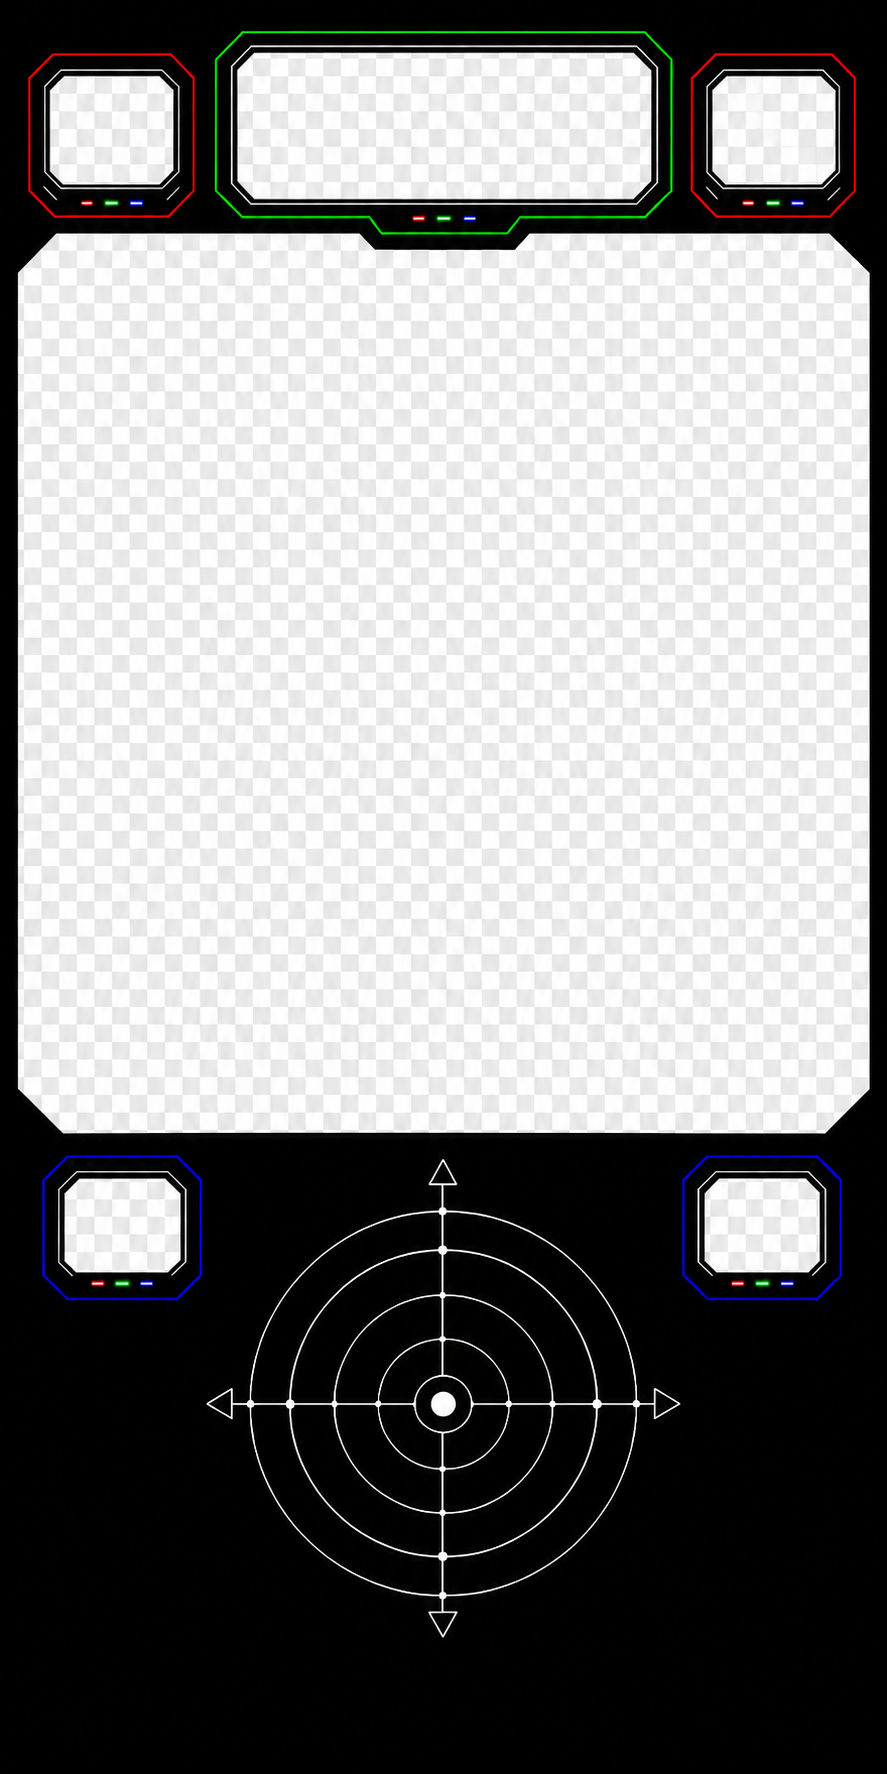
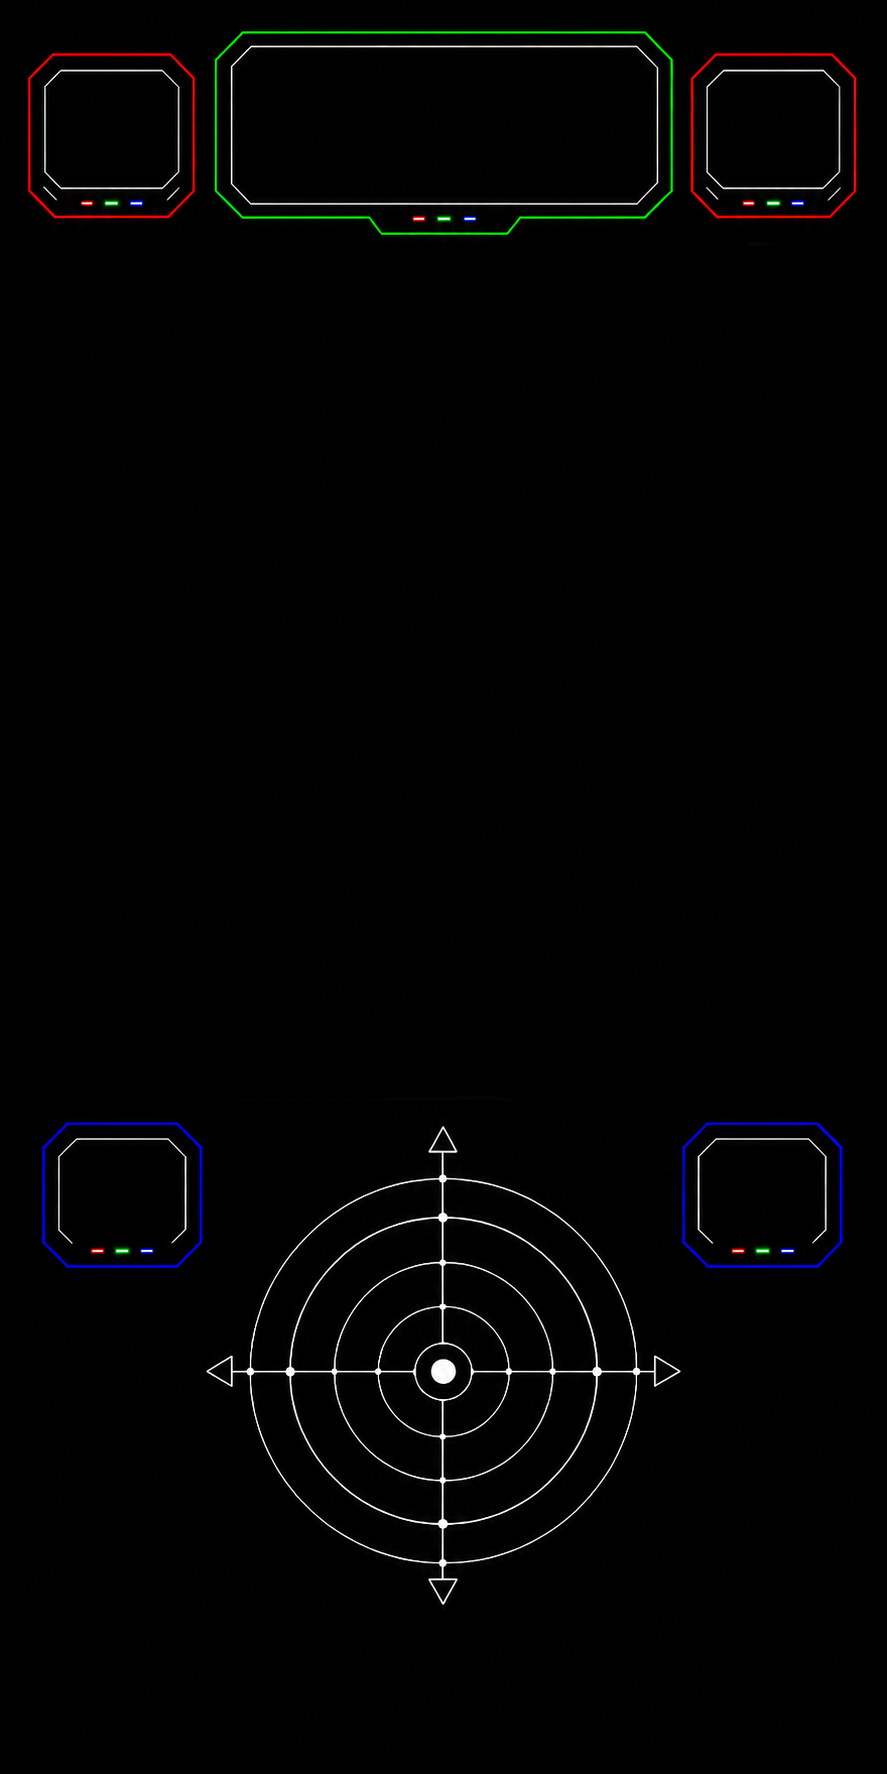
Add files via upload

diff --git a/index.html b/index.html
@@ -1,7 +1,7 @@
 <!DOCTYPE html>
 <!--
 Block-A-Zoids
-Trackpad Prototype p105: Uses the revised five-window skin with a fully transparent central playfield band.
+Trackpad Prototype p108: Replaces the alpha overlay with one external cabinet background asset and positions the live game/HUD above it.
 Copyright © 2026 Marcus Couto. All rights reserved.
 
 This source code, artwork, game design, and related assets are not licensed for reuse, redistribution, modification, or commercial use without written permission.
@@ -10,7 +10,7 @@ Font License Notices
 - Orbitron: Copyright 2018 The Orbitron Project Authors (https://github.com/theleagueof/orbitron), with Reserved Font Name ‘Orbitron’. Designed originally by Matt McInerney. Licensed under the SIL Open Font License, Version 1.1. Keep OFL.txt with the distributed font files. The Orbitron license applies only to the font software and does not place Block-A-Zoids under the OFL.
 
 -->
-<html data-build-version="trackpad-p105">
+<html data-build-version="trackpad-p108">
 <head>
     <meta name="viewport" content="width=device-width, initial-scale=1.0, minimum-scale=1.0, maximum-scale=1.0, viewport-fit=cover, user-scalable=no">
     <title>Block-A-Zoids</title>
@@ -8140,6 +8140,33 @@ Font License Notices
             stroke-width: 1.08 !important;
         }
 
+    
+
+        /* p108: static cabinet background architecture. No alpha overlay or runtime image mask. */
+        html body #skinShell {
+            background-color: #000 !important;
+            background-image: url("blockazoids-cabinet-background.png") !important;
+            background-repeat: no-repeat !important;
+            background-position: center top !important;
+            background-size: 100% 100% !important;
+        }
+
+        html body #skinFrameImage {
+            display: none !important;
+        }
+
+        /* The game sits above the cabinet art. Its square is aligned to the inner span of the two top side windows. */
+        html body #skinShell > #playfieldShell {
+            left: var(--skin-playfield-left, 4.904171%) !important;
+            top: var(--skin-playfield-top, 14.092446%) !important;
+            z-index: 2 !important;
+        }
+
+        html body #playfieldShell > #gameContainer {
+            border: max(1px, calc(var(--skin-scale, 1) * 2px)) solid rgba(255,255,255,0.92) !important;
+            box-shadow: 0 0 calc(var(--skin-scale, 1) * 8px) rgba(255,255,255,0.42) !important;
+        }
+
     </style>
 </head>
 <body class="crt-phosphor-calibration">
@@ -8160,7 +8187,6 @@ Font License Notices
         <button id="stabilityReportDismiss" type="button">DISMISS REPORT</button>
     </div>
     <div id="skinShell" aria-label="Block-A-Zoids cabinet">
-        <img id="skinFrameImage" alt="" draggable="false" aria-hidden="true">
 
     <!-- Score display -->
     <div id="scoreHud">
@@ -8402,7 +8428,6 @@ Font License Notices
                     <button id="copyStateSnapshotButton" class="menu-button settings-toggle" type="button">Copy State Snapshot</button>
                     <div id="telemetryStatus" class="telemetry-status"></div>
                     <button id="invincibilityToggleButton" class="menu-button settings-toggle" type="button">Invincibility: OFF</button>
-                    <button id="skinToggleButton" class="menu-button settings-toggle" type="button">Cabinet Skin: ON</button>
                 </div>
                 <button id="settingsBackButton" class="menu-back-button">Back</button>
             </div>
@@ -9942,7 +9967,7 @@ Font License Notices
                 // DOM element references
                 this.container = document.getElementById('gameContainer');
                 this.skinShell = document.getElementById('skinShell');
-                this.skinFrameImage = document.getElementById('skinFrameImage');
+                this.skinFrameImage = null;
                 this.playfieldShell = document.getElementById('playfieldShell');
                 this.splashScreen = document.getElementById('splashScreen');
                 this.splashMarqueeImage = document.getElementById('splashMarqueeImage');
@@ -10035,7 +10060,7 @@ Font License Notices
                 this.tutorialContinuePointerId = null;
                 this.tutorialContinueClickBlockUntil = 0;
                 this.invincibilityToggleButton = document.getElementById('invincibilityToggleButton');
-                this.skinToggleButton = document.getElementById('skinToggleButton');
+                this.skinToggleButton = null;
                 this.skinFrameControl = document.getElementById('skinFrameControl');
                 this.skinFrameDecreaseButton = document.getElementById('skinFrameDecreaseButton');
                 this.skinFrameIncreaseButton = document.getElementById('skinFrameIncreaseButton');
@@ -10055,8 +10080,7 @@ Font License Notices
                 this.resetSkinFrameFitButton = document.getElementById('resetSkinFrameFitButton');
                 this.skinFrameStorageKey = 'blockazoidsDeveloperSkinFrameV1';
                 this.skinFrameTuningStorageKey = 'blockazoidsDeveloperSkinFrameTuningV3';
-                this.skinEnabledStorageKey = 'blockazoidsCabinetSkinEnabledV1';
-                this.skinEnabled = this.loadSkinEnabled();
+                this.skinEnabled = true;
                 this.skinFrameOptions = [
                     {
                         id: 'vector',
@@ -10065,29 +10089,26 @@ Font License Notices
                         layoutProfile: {
                             masterWidth: 887,
                             masterHeight: 1774,
-                            masterPlayfieldSize: 790,
-                            playfieldLeft: 5.240000,
-                            playfieldTop: 15.347238,
-                            scoreLeft: 25.479143,
-                            scoreTop: 2.762120,
-                            scoreWidth: 48.590755,
-                            scoreHeight: 8.850056,
-                            zapLeft: 79.932356,
-                            zapTop: 4.171364,
-                            zapWidth: 14.881624,
-                            zapHeight: 6.538895,
-                            startLeft: 12.232244,
-                            startTop: 7.384442,
-                            startWidth: 14.994363,
-                            statusTop: 67.450000,
-                            statusWidth: 14.994363,
-                            sectorX: 13.900000,
-                            cycleX: 85.700000,
+                            masterPlayfieldSize: 800,
+                            playfieldLeft: 4.904171,
+                            playfieldTop: 14.092446,
+                            scoreLeft: 25.817362,
+                            scoreTop: 2.536640,
+                            scoreWidth: 48.365276,
+                            scoreHeight: 9.019166,
+                            zapLeft: 79.706877,
+                            zapTop: 3.945885,
+                            zapWidth: 15.219842,
+                            zapHeight: 6.764375,
+                            startLeft: 12.570462,
+                            startTop: 7.271702,
+                            startWidth: 14.881624,
+                            statusTop: 67.361894,
+                            statusWidth: 14.881624,
+                            sectorX: 13.754228,
+                            cycleX: 85.907553,
                             lowerControlsTop: 89.505073
-                        },
-                        candidates: [
-                            'blockazoids-skin-vector-frame.png'
-                        ]
+                        }
                     }
                 ];
                 this.selectedSkinFrameId = 'vector';
@@ -10795,15 +10816,6 @@ Font License Notices
                         this.toggleInvincibility();
                     });
                 }
-                if (this.skinToggleButton) {
-                    this.skinToggleButton.addEventListener('click', (e) => {
-                        e.preventDefault();
-                        e.stopPropagation();
-                        if (!this.developerModeEnabled) return;
-                        this.playUiClick();
-                        this.toggleSkinVisibility();
-                    });
-                }
                 if (this.skinFrameDecreaseButton) {
                     this.skinFrameDecreaseButton.addEventListener('click', (e) => {
                         e.preventDefault();
@@ -10866,7 +10878,6 @@ Font License Notices
                 this.updateSoundToggleLabel();
                 this.updateMusicToggleLabel();
                 this.updateInvincibilityToggleLabel();
-                this.updateSkinToggleLabel();
                 this.applyCrtPreference();
                 this.updateTrackingSpeedLabel();
                 this.updateSettingsSectorLabel();
@@ -11730,42 +11741,6 @@ Font License Notices
                     this.setTelemetryStatus('Local balance data only.');
                 }
             }
-
-            loadSkinEnabled() {
-                try {
-                    return localStorage.getItem(this.skinEnabledStorageKey) !== '0';
-                } catch (error) {
-                    return true;
-                }
-            }
-
-            saveSkinEnabled() {
-                try {
-                    localStorage.setItem(this.skinEnabledStorageKey, this.skinEnabled ? '1' : '0');
-                } catch (error) {
-                    // The prototype remains usable when storage is unavailable.
-                }
-            }
-
-            updateSkinToggleLabel() {
-                if (!this.skinToggleButton) return;
-                this.skinToggleButton.textContent = `Cabinet Skin: ${this.skinEnabled ? 'ON' : 'OFF'}`;
-                this.skinToggleButton.setAttribute('aria-pressed', this.skinEnabled ? 'true' : 'false');
-            }
-
-            toggleSkinVisibility() {
-                this.skinEnabled = !this.skinEnabled;
-                this.saveSkinEnabled();
-                this.updateSkinToggleLabel();
-                if (this.skinShell) this.skinShell.classList.toggle('skin-frame-disabled', !this.skinEnabled);
-                if (this.skinEnabled) {
-                    this.applySelectedSkinFrame({ silent: true });
-                } else if (this.skinFrameImage) {
-                    this.skinFrameImage.style.display = 'none';
-                }
-                this.setTelemetryStatus(`Cabinet Skin: ${this.skinEnabled ? 'On' : 'Off'}.`);
-            }
-
             loadSkinFrameSelection() {
                 try {
                     const saved = localStorage.getItem(this.skinFrameStorageKey);
@@ -11903,46 +11878,15 @@ Font License Notices
                 this.applySelectedSkinFrame();
                 this.applySkinFrameTuningLayout('skin-frame-change');
             }
-
             applySelectedSkinFrame({ silent = false } = {}) {
-                this.skinFrameLoadToken += 1;
-                const loadToken = this.skinFrameLoadToken;
                 const selected = this.skinFrameOptions.find(option => option.id === this.selectedSkinFrameId) || this.skinFrameOptions[0];
                 this.applySkinLayoutProfile(selected.layoutProfile);
                 this.updateSkinFrameLabel();
-
-                if (this.skinShell) this.skinShell.classList.toggle('skin-frame-disabled', !this.skinEnabled);
-                if (!this.skinFrameImage) return;
-                this.skinFrameImage.style.display = 'none';
-                this.skinFrameImage.removeAttribute('src');
-                delete this.skinFrameImage.dataset.skinFrame;
-                if (!this.skinEnabled) return;
-                this.trySkinFrameCandidate(selected, 0, loadToken, silent);
-            }
-
-            trySkinFrameCandidate(option, candidateIndex, loadToken, silent) {
-                if (loadToken !== this.skinFrameLoadToken || !this.skinFrameImage) return;
-                const candidate = option.candidates[candidateIndex];
-                if (!candidate) {
-                    this.skinFrameImage.style.display = 'none';
-                    this.skinFrameImage.removeAttribute('src');
-                    this.skinFrameImage.dataset.skinFrame = 'missing';
-                    if (!silent) this.setTelemetryStatus(`${option.label} Frame not found beside the HTML. Plain black frame active.`);
-                    return;
+                if (this.skinShell) {
+                    this.skinShell.classList.remove('skin-frame-disabled');
+                    this.skinShell.dataset.cabinetPresentation = 'background-asset';
                 }
-
-                const probe = new Image();
-                probe.onload = () => {
-                    if (loadToken !== this.skinFrameLoadToken || !this.skinFrameImage) return;
-                    this.skinFrameImage.setAttribute('src', candidate);
-                    this.skinFrameImage.dataset.skinFrame = option.id;
-                    this.skinFrameImage.style.display = this.skinEnabled ? 'block' : 'none';
-                    if (!silent) this.setTelemetryStatus(`Skin Frame: ${option.label} (${candidate}).`);
-                };
-                probe.onerror = () => {
-                    this.trySkinFrameCandidate(option, candidateIndex + 1, loadToken, silent);
-                };
-                probe.src = candidate;
+                if (!silent) this.setTelemetryStatus('Cabinet Background: blockazoids-cabinet-background.png.');
             }
 
             loadTelemetryData() {